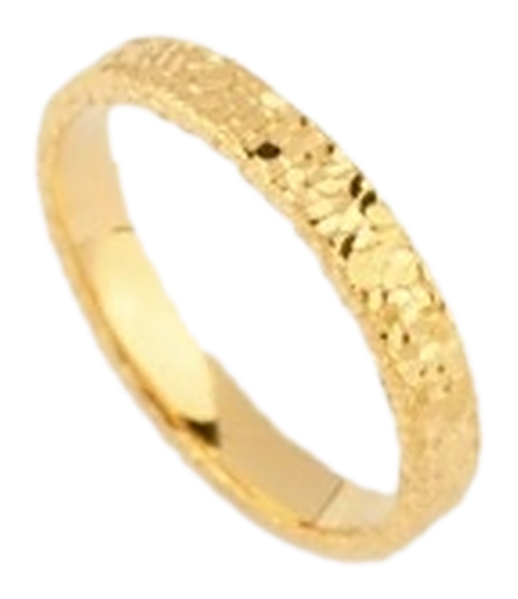
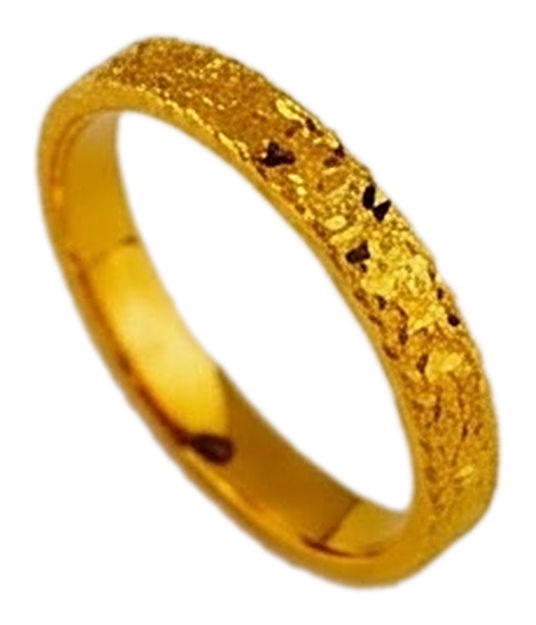
Use higher-resolution product photos for ring cutouts and menu
Claude-Session: https://claude.ai/code/session_012cKHDxTBb9kxvZVWFGyoop

diff --git a/gold-rings/compositions/hook.html b/gold-rings/compositions/hook.html
@@ -16,7 +16,7 @@
     <div data-hf-id="hf-57yj" id="hk-glow" class="glow" style="left:-60px;top:300px"></div>
     <div data-hf-id="hf-qmm4" id="hk-l1" class="center" style="top:196px;font-family:'Playfair Display',serif;font-weight:900;font-size:176px;line-height:1.05"><span data-hf-id="hf-ncsw" class="grad">EMAS 24K</span></div>
     <div data-hf-id="hf-k7p7" id="hk-l2" class="center" style="top:392px;font-weight:800;font-size:92px;line-height:1.1;letter-spacing:.01em;color:#FFF6E0">MULA&#160;<span data-hf-id="hf-z8n5" id="hk-price" style="display:inline-block;color:#FFD66B;margin:0 6px">RM774</span>?</div>
-    <div data-hf-id="hf-iel2" id="hk-wrap" class="abs" style="left:140px;top:547px;width:800px;height:706px">
+    <div data-hf-id="hf-82je" id="hk-wrap" class="abs" style="left:160px;top:562px;width:760px;height:676px">
       <img data-color-grading="{&quot;preset&quot;:null,&quot;intensity&quot;:1,&quot;adjust&quot;:{&quot;exposure&quot;:-0.04,&quot;contrast&quot;:0.12,&quot;highlights&quot;:-0.15,&quot;shadows&quot;:0,&quot;whites&quot;:0,&quot;blacks&quot;:0,&quot;temperature&quot;:0.05,&quot;tint&quot;:0,&quot;vibrance&quot;:0,&quot;saturation&quot;:0.06},&quot;details&quot;:{&quot;vignette&quot;:0,&quot;vignetteMidpoint&quot;:0.5,&quot;vignetteRoundness&quot;:0,&quot;vignetteFeather&quot;:0.65,&quot;grain&quot;:0,&quot;grainSize&quot;:0.25,&quot;grainRoughness&quot;:0.5},&quot;effects&quot;:{&quot;blur&quot;:0,&quot;pixelate&quot;:0,&quot;chromaBleed&quot;:0,&quot;tapeDamage&quot;:0,&quot;tapeTracking&quot;:0,&quot;tapeNoise&quot;:1,&quot;tapeSpeed&quot;:0.5,&quot;filmArtifacts&quot;:0,&quot;halftone&quot;:0,&quot;halftoneSize&quot;:0,&quot;twoInkPrint&quot;:0,&quot;twoInkPrintSize&quot;:0,&quot;ascii&quot;:0,&quot;asciiSize&quot;:0.06578947368421052,&quot;asciiInvert&quot;:0,&quot;asciiStyle&quot;:0,&quot;asciiColor&quot;:1,&quot;asciiRotation&quot;:0,&quot;dither&quot;:0,&quot;ditherSize&quot;:0,&quot;bloom&quot;:0,&quot;bloomRadius&quot;:8,&quot;monoScreen&quot;:0,&quot;monoScreenSize&quot;:0,&quot;monoScreenAngle&quot;:0,&quot;monoScreenSpread&quot;:0,&quot;monoScreenShape&quot;:0,&quot;monoScreenInvert&quot;:0,&quot;scanlines&quot;:0,&quot;scanlineCount&quot;:0,&quot;scanlineSoftness&quot;:0,&quot;chromaticAberration&quot;:0,&quot;chromaticAngle&quot;:0,&quot;crtCurvature&quot;:0,&quot;digitalGlitch&quot;:0,&quot;digitalGlitchColorSplit&quot;:0,&quot;digitalGlitchLineTear&quot;:0,&quot;digitalGlitchPixelate&quot;:0,&quot;digitalGlitchBlockAmount&quot;:0,&quot;digitalGlitchBlockDisplacement&quot;:0,&quot;digitalGlitchBlockOpacity&quot;:0,&quot;digitalGlitchSpeed&quot;:0,&quot;engraving&quot;:0,&quot;engravingSpacing&quot;:0.4117647058823529,&quot;engravingMinThickness&quot;:0.2,&quot;engravingMaxThickness&quot;:0.4571428571428572,&quot;engravingAngle&quot;:0.25,&quot;engravingContrast&quot;:0.4666666666666667,&quot;engravingSharpness&quot;:0.59,&quot;engravingWave&quot;:0.2,&quot;engravingWaveFrequency&quot;:0.2222222222222222,&quot;crosshatch&quot;:0,&quot;crosshatchSpacing&quot;:0.28,&quot;crosshatchThickness&quot;:0.25,&quot;crosshatchAngle&quot;:0.25,&quot;crosshatchContrast&quot;:0.3333333333333333,&quot;crosshatchEdges&quot;:0.5,&quot;crosshatchLineWeight&quot;:0,&quot;crosshatchWave&quot;:0.33,&quot;crosshatchWaveFrequency&quot;:0.2222222222222222,&quot;kuwahara&quot;:0,&quot;kuwaharaRadius&quot;:0.14285714285714285,&quot;kuwaharaSharpness&quot;:0.3125,&quot;kuwaharaSaturation&quot;:0.5},&quot;lut&quot;:null,&quot;colorSpace&quot;:&quot;rec709&quot;}" data-hf-id="hf-xk2c" id="hk-img" src="assets/img/r3.png" alt="" style="position:absolute;inset:0;width:100%;height:100%">
       <div data-hf-id="hf-edjs" id="hk-sweep" class="abs" style="inset:0;-webkit-mask-image:url(assets/img/r3.png);mask-image:url(assets/img/r3.png);-webkit-mask-size:100% 100%;mask-size:100% 100%;background:linear-gradient(105deg,rgba(255,248,220,0) 38%,rgba(255,252,235,.95) 50%,rgba(255,248,220,0) 62%);background-size:260% 100%;background-position:130% 0"></div>
     </div>

diff --git a/gold-rings/compositions/ring1.html b/gold-rings/compositions/ring1.html
@@ -16,7 +16,7 @@
     <div data-hf-id="hf-wdxv" id="r1-glow" class="glow" style="left:-60px;top:10px"></div>
     <div data-hf-id="hf-gyy7" id="r1-badge" class="center badge" style="top:222px">999 / 24K Gold</div>
     <div data-hf-id="hf-p607" class="rule" style="left:470px;top:278px"></div>
-    <div data-hf-id="hf-8t0x" id="r1-wrap" class="abs" style="left:110px;top:286px;width:860px;height:649px">
+    <div data-hf-id="hf-bd05" id="r1-wrap" class="abs" style="left:110px;top:283px;width:860px;height:655px">
       <img data-color-grading="{&quot;preset&quot;:null,&quot;intensity&quot;:1,&quot;adjust&quot;:{&quot;exposure&quot;:-0.04,&quot;contrast&quot;:0.12,&quot;highlights&quot;:-0.15,&quot;shadows&quot;:0,&quot;whites&quot;:0,&quot;blacks&quot;:0,&quot;temperature&quot;:0.05,&quot;tint&quot;:0,&quot;vibrance&quot;:0,&quot;saturation&quot;:0.06},&quot;details&quot;:{&quot;vignette&quot;:0,&quot;vignetteMidpoint&quot;:0.5,&quot;vignetteRoundness&quot;:0,&quot;vignetteFeather&quot;:0.65,&quot;grain&quot;:0,&quot;grainSize&quot;:0.25,&quot;grainRoughness&quot;:0.5},&quot;effects&quot;:{&quot;blur&quot;:0,&quot;pixelate&quot;:0,&quot;chromaBleed&quot;:0,&quot;tapeDamage&quot;:0,&quot;tapeTracking&quot;:0,&quot;tapeNoise&quot;:1,&quot;tapeSpeed&quot;:0.5,&quot;filmArtifacts&quot;:0,&quot;halftone&quot;:0,&quot;halftoneSize&quot;:0,&quot;twoInkPrint&quot;:0,&quot;twoInkPrintSize&quot;:0,&quot;ascii&quot;:0,&quot;asciiSize&quot;:0.06578947368421052,&quot;asciiInvert&quot;:0,&quot;asciiStyle&quot;:0,&quot;asciiColor&quot;:1,&quot;asciiRotation&quot;:0,&quot;dither&quot;:0,&quot;ditherSize&quot;:0,&quot;bloom&quot;:0,&quot;bloomRadius&quot;:8,&quot;monoScreen&quot;:0,&quot;monoScreenSize&quot;:0,&quot;monoScreenAngle&quot;:0,&quot;monoScreenSpread&quot;:0,&quot;monoScreenShape&quot;:0,&quot;monoScreenInvert&quot;:0,&quot;scanlines&quot;:0,&quot;scanlineCount&quot;:0,&quot;scanlineSoftness&quot;:0,&quot;chromaticAberration&quot;:0,&quot;chromaticAngle&quot;:0,&quot;crtCurvature&quot;:0,&quot;digitalGlitch&quot;:0,&quot;digitalGlitchColorSplit&quot;:0,&quot;digitalGlitchLineTear&quot;:0,&quot;digitalGlitchPixelate&quot;:0,&quot;digitalGlitchBlockAmount&quot;:0,&quot;digitalGlitchBlockDisplacement&quot;:0,&quot;digitalGlitchBlockOpacity&quot;:0,&quot;digitalGlitchSpeed&quot;:0,&quot;engraving&quot;:0,&quot;engravingSpacing&quot;:0.4117647058823529,&quot;engravingMinThickness&quot;:0.2,&quot;engravingMaxThickness&quot;:0.4571428571428572,&quot;engravingAngle&quot;:0.25,&quot;engravingContrast&quot;:0.4666666666666667,&quot;engravingSharpness&quot;:0.59,&quot;engravingWave&quot;:0.2,&quot;engravingWaveFrequency&quot;:0.2222222222222222,&quot;crosshatch&quot;:0,&quot;crosshatchSpacing&quot;:0.28,&quot;crosshatchThickness&quot;:0.25,&quot;crosshatchAngle&quot;:0.25,&quot;crosshatchContrast&quot;:0.3333333333333333,&quot;crosshatchEdges&quot;:0.5,&quot;crosshatchLineWeight&quot;:0,&quot;crosshatchWave&quot;:0.33,&quot;crosshatchWaveFrequency&quot;:0.2222222222222222,&quot;kuwahara&quot;:0,&quot;kuwaharaRadius&quot;:0.14285714285714285,&quot;kuwaharaSharpness&quot;:0.3125,&quot;kuwaharaSaturation&quot;:0.5},&quot;lut&quot;:null,&quot;colorSpace&quot;:&quot;rec709&quot;}" data-hf-id="hf-xw3q" id="r1-img" src="assets/img/r1.png" alt="" style="position:absolute;inset:0;width:100%;height:100%">
       <div data-hf-id="hf-jxu8" id="r1-sweep" class="abs" style="inset:0;-webkit-mask-image:url(assets/img/r1.png);mask-image:url(assets/img/r1.png);-webkit-mask-size:100% 100%;mask-size:100% 100%;background:linear-gradient(105deg,rgba(255,248,220,0) 38%,rgba(255,252,235,.95) 50%,rgba(255,248,220,0) 62%);background-size:260% 100%;background-position:130% 0"></div>
     </div>

diff --git a/gold-rings/compositions/ring2.html b/gold-rings/compositions/ring2.html
@@ -16,7 +16,7 @@
     <div data-hf-id="hf-fczy" id="r2-glow" class="glow" style="left:-60px;top:10px"></div>
     <div data-hf-id="hf-f640" id="r2-badge" class="center badge" style="top:222px">999 / 24K Gold</div>
     <div data-hf-id="hf-p607" class="rule" style="left:470px;top:278px"></div>
-    <div data-hf-id="hf-jgfy" id="r2-wrap" class="abs" style="left:110px;top:279px;width:860px;height:663px">
+    <div data-hf-id="hf-rgf8" id="r2-wrap" class="abs" style="left:110px;top:286px;width:860px;height:649px">
       <img data-color-grading="{&quot;preset&quot;:null,&quot;intensity&quot;:1,&quot;adjust&quot;:{&quot;exposure&quot;:-0.04,&quot;contrast&quot;:0.12,&quot;highlights&quot;:-0.15,&quot;shadows&quot;:0,&quot;whites&quot;:0,&quot;blacks&quot;:0,&quot;temperature&quot;:0.05,&quot;tint&quot;:0,&quot;vibrance&quot;:0,&quot;saturation&quot;:0.06},&quot;details&quot;:{&quot;vignette&quot;:0,&quot;vignetteMidpoint&quot;:0.5,&quot;vignetteRoundness&quot;:0,&quot;vignetteFeather&quot;:0.65,&quot;grain&quot;:0,&quot;grainSize&quot;:0.25,&quot;grainRoughness&quot;:0.5},&quot;effects&quot;:{&quot;blur&quot;:0,&quot;pixelate&quot;:0,&quot;chromaBleed&quot;:0,&quot;tapeDamage&quot;:0,&quot;tapeTracking&quot;:0,&quot;tapeNoise&quot;:1,&quot;tapeSpeed&quot;:0.5,&quot;filmArtifacts&quot;:0,&quot;halftone&quot;:0,&quot;halftoneSize&quot;:0,&quot;twoInkPrint&quot;:0,&quot;twoInkPrintSize&quot;:0,&quot;ascii&quot;:0,&quot;asciiSize&quot;:0.06578947368421052,&quot;asciiInvert&quot;:0,&quot;asciiStyle&quot;:0,&quot;asciiColor&quot;:1,&quot;asciiRotation&quot;:0,&quot;dither&quot;:0,&quot;ditherSize&quot;:0,&quot;bloom&quot;:0,&quot;bloomRadius&quot;:8,&quot;monoScreen&quot;:0,&quot;monoScreenSize&quot;:0,&quot;monoScreenAngle&quot;:0,&quot;monoScreenSpread&quot;:0,&quot;monoScreenShape&quot;:0,&quot;monoScreenInvert&quot;:0,&quot;scanlines&quot;:0,&quot;scanlineCount&quot;:0,&quot;scanlineSoftness&quot;:0,&quot;chromaticAberration&quot;:0,&quot;chromaticAngle&quot;:0,&quot;crtCurvature&quot;:0,&quot;digitalGlitch&quot;:0,&quot;digitalGlitchColorSplit&quot;:0,&quot;digitalGlitchLineTear&quot;:0,&quot;digitalGlitchPixelate&quot;:0,&quot;digitalGlitchBlockAmount&quot;:0,&quot;digitalGlitchBlockDisplacement&quot;:0,&quot;digitalGlitchBlockOpacity&quot;:0,&quot;digitalGlitchSpeed&quot;:0,&quot;engraving&quot;:0,&quot;engravingSpacing&quot;:0.4117647058823529,&quot;engravingMinThickness&quot;:0.2,&quot;engravingMaxThickness&quot;:0.4571428571428572,&quot;engravingAngle&quot;:0.25,&quot;engravingContrast&quot;:0.4666666666666667,&quot;engravingSharpness&quot;:0.59,&quot;engravingWave&quot;:0.2,&quot;engravingWaveFrequency&quot;:0.2222222222222222,&quot;crosshatch&quot;:0,&quot;crosshatchSpacing&quot;:0.28,&quot;crosshatchThickness&quot;:0.25,&quot;crosshatchAngle&quot;:0.25,&quot;crosshatchContrast&quot;:0.3333333333333333,&quot;crosshatchEdges&quot;:0.5,&quot;crosshatchLineWeight&quot;:0,&quot;crosshatchWave&quot;:0.33,&quot;crosshatchWaveFrequency&quot;:0.2222222222222222,&quot;kuwahara&quot;:0,&quot;kuwaharaRadius&quot;:0.14285714285714285,&quot;kuwaharaSharpness&quot;:0.3125,&quot;kuwaharaSaturation&quot;:0.5},&quot;lut&quot;:null,&quot;colorSpace&quot;:&quot;rec709&quot;}" data-hf-id="hf-2g4c" id="r2-img" src="assets/img/r4.png" alt="" style="position:absolute;inset:0;width:100%;height:100%">
       <div data-hf-id="hf-k6j3" id="r2-sweep" class="abs" style="inset:0;-webkit-mask-image:url(assets/img/r4.png);mask-image:url(assets/img/r4.png);-webkit-mask-size:100% 100%;mask-size:100% 100%;background:linear-gradient(105deg,rgba(255,248,220,0) 38%,rgba(255,252,235,.95) 50%,rgba(255,248,220,0) 62%);background-size:260% 100%;background-position:130% 0"></div>
     </div>

diff --git a/gold-rings/compositions/ring3.html b/gold-rings/compositions/ring3.html
@@ -16,7 +16,7 @@
     <div data-hf-id="hf-k351" id="r3-glow" class="glow" style="left:-60px;top:10px"></div>
     <div data-hf-id="hf-96kx" id="r3-badge" class="center badge" style="top:222px">999 / 24K Gold</div>
     <div data-hf-id="hf-p607" class="rule" style="left:470px;top:278px"></div>
-    <div data-hf-id="hf-dg11" id="r3-wrap" class="abs" style="left:255px;top:281px;width:570px;height:659px">
+    <div data-hf-id="hf-ri3w" id="r3-wrap" class="abs" style="left:255px;top:278px;width:570px;height:665px">
       <img data-color-grading="{&quot;preset&quot;:null,&quot;intensity&quot;:1,&quot;adjust&quot;:{&quot;exposure&quot;:-0.04,&quot;contrast&quot;:0.12,&quot;highlights&quot;:-0.15,&quot;shadows&quot;:0,&quot;whites&quot;:0,&quot;blacks&quot;:0,&quot;temperature&quot;:0.05,&quot;tint&quot;:0,&quot;vibrance&quot;:0,&quot;saturation&quot;:0.06},&quot;details&quot;:{&quot;vignette&quot;:0,&quot;vignetteMidpoint&quot;:0.5,&quot;vignetteRoundness&quot;:0,&quot;vignetteFeather&quot;:0.65,&quot;grain&quot;:0,&quot;grainSize&quot;:0.25,&quot;grainRoughness&quot;:0.5},&quot;effects&quot;:{&quot;blur&quot;:0,&quot;pixelate&quot;:0,&quot;chromaBleed&quot;:0,&quot;tapeDamage&quot;:0,&quot;tapeTracking&quot;:0,&quot;tapeNoise&quot;:1,&quot;tapeSpeed&quot;:0.5,&quot;filmArtifacts&quot;:0,&quot;halftone&quot;:0,&quot;halftoneSize&quot;:0,&quot;twoInkPrint&quot;:0,&quot;twoInkPrintSize&quot;:0,&quot;ascii&quot;:0,&quot;asciiSize&quot;:0.06578947368421052,&quot;asciiInvert&quot;:0,&quot;asciiStyle&quot;:0,&quot;asciiColor&quot;:1,&quot;asciiRotation&quot;:0,&quot;dither&quot;:0,&quot;ditherSize&quot;:0,&quot;bloom&quot;:0,&quot;bloomRadius&quot;:8,&quot;monoScreen&quot;:0,&quot;monoScreenSize&quot;:0,&quot;monoScreenAngle&quot;:0,&quot;monoScreenSpread&quot;:0,&quot;monoScreenShape&quot;:0,&quot;monoScreenInvert&quot;:0,&quot;scanlines&quot;:0,&quot;scanlineCount&quot;:0,&quot;scanlineSoftness&quot;:0,&quot;chromaticAberration&quot;:0,&quot;chromaticAngle&quot;:0,&quot;crtCurvature&quot;:0,&quot;digitalGlitch&quot;:0,&quot;digitalGlitchColorSplit&quot;:0,&quot;digitalGlitchLineTear&quot;:0,&quot;digitalGlitchPixelate&quot;:0,&quot;digitalGlitchBlockAmount&quot;:0,&quot;digitalGlitchBlockDisplacement&quot;:0,&quot;digitalGlitchBlockOpacity&quot;:0,&quot;digitalGlitchSpeed&quot;:0,&quot;engraving&quot;:0,&quot;engravingSpacing&quot;:0.4117647058823529,&quot;engravingMinThickness&quot;:0.2,&quot;engravingMaxThickness&quot;:0.4571428571428572,&quot;engravingAngle&quot;:0.25,&quot;engravingContrast&quot;:0.4666666666666667,&quot;engravingSharpness&quot;:0.59,&quot;engravingWave&quot;:0.2,&quot;engravingWaveFrequency&quot;:0.2222222222222222,&quot;crosshatch&quot;:0,&quot;crosshatchSpacing&quot;:0.28,&quot;crosshatchThickness&quot;:0.25,&quot;crosshatchAngle&quot;:0.25,&quot;crosshatchContrast&quot;:0.3333333333333333,&quot;crosshatchEdges&quot;:0.5,&quot;crosshatchLineWeight&quot;:0,&quot;crosshatchWave&quot;:0.33,&quot;crosshatchWaveFrequency&quot;:0.2222222222222222,&quot;kuwahara&quot;:0,&quot;kuwaharaRadius&quot;:0.14285714285714285,&quot;kuwaharaSharpness&quot;:0.3125,&quot;kuwaharaSaturation&quot;:0.5},&quot;lut&quot;:null,&quot;colorSpace&quot;:&quot;rec709&quot;}" data-hf-id="hf-i1yp" id="r3-img" src="assets/img/r2.png" alt="" style="position:absolute;inset:0;width:100%;height:100%">
       <div data-hf-id="hf-06xu" id="r3-sweep" class="abs" style="inset:0;-webkit-mask-image:url(assets/img/r2.png);mask-image:url(assets/img/r2.png);-webkit-mask-size:100% 100%;mask-size:100% 100%;background:linear-gradient(105deg,rgba(255,248,220,0) 38%,rgba(255,252,235,.95) 50%,rgba(255,248,220,0) 62%);background-size:260% 100%;background-position:130% 0"></div>
     </div>

diff --git a/gold-rings/compositions/ring4.html b/gold-rings/compositions/ring4.html
@@ -16,7 +16,7 @@
     <div data-hf-id="hf-qkxc" id="r4-glow" class="glow" style="left:-60px;top:10px"></div>
     <div data-hf-id="hf-qqh6" id="r4-badge" class="center badge" style="top:222px">999 / 24K Gold</div>
     <div data-hf-id="hf-p607" class="rule" style="left:470px;top:278px"></div>
-    <div data-hf-id="hf-78z5" id="r4-wrap" class="abs" style="left:140px;top:257px;width:800px;height:706px">
+    <div data-hf-id="hf-oo09" id="r4-wrap" class="abs" style="left:160px;top:272px;width:760px;height:676px">
       <img data-color-grading="{&quot;preset&quot;:null,&quot;intensity&quot;:1,&quot;adjust&quot;:{&quot;exposure&quot;:-0.04,&quot;contrast&quot;:0.12,&quot;highlights&quot;:-0.15,&quot;shadows&quot;:0,&quot;whites&quot;:0,&quot;blacks&quot;:0,&quot;temperature&quot;:0.05,&quot;tint&quot;:0,&quot;vibrance&quot;:0,&quot;saturation&quot;:0.06},&quot;details&quot;:{&quot;vignette&quot;:0,&quot;vignetteMidpoint&quot;:0.5,&quot;vignetteRoundness&quot;:0,&quot;vignetteFeather&quot;:0.65,&quot;grain&quot;:0,&quot;grainSize&quot;:0.25,&quot;grainRoughness&quot;:0.5},&quot;effects&quot;:{&quot;blur&quot;:0,&quot;pixelate&quot;:0,&quot;chromaBleed&quot;:0,&quot;tapeDamage&quot;:0,&quot;tapeTracking&quot;:0,&quot;tapeNoise&quot;:1,&quot;tapeSpeed&quot;:0.5,&quot;filmArtifacts&quot;:0,&quot;halftone&quot;:0,&quot;halftoneSize&quot;:0,&quot;twoInkPrint&quot;:0,&quot;twoInkPrintSize&quot;:0,&quot;ascii&quot;:0,&quot;asciiSize&quot;:0.06578947368421052,&quot;asciiInvert&quot;:0,&quot;asciiStyle&quot;:0,&quot;asciiColor&quot;:1,&quot;asciiRotation&quot;:0,&quot;dither&quot;:0,&quot;ditherSize&quot;:0,&quot;bloom&quot;:0,&quot;bloomRadius&quot;:8,&quot;monoScreen&quot;:0,&quot;monoScreenSize&quot;:0,&quot;monoScreenAngle&quot;:0,&quot;monoScreenSpread&quot;:0,&quot;monoScreenShape&quot;:0,&quot;monoScreenInvert&quot;:0,&quot;scanlines&quot;:0,&quot;scanlineCount&quot;:0,&quot;scanlineSoftness&quot;:0,&quot;chromaticAberration&quot;:0,&quot;chromaticAngle&quot;:0,&quot;crtCurvature&quot;:0,&quot;digitalGlitch&quot;:0,&quot;digitalGlitchColorSplit&quot;:0,&quot;digitalGlitchLineTear&quot;:0,&quot;digitalGlitchPixelate&quot;:0,&quot;digitalGlitchBlockAmount&quot;:0,&quot;digitalGlitchBlockDisplacement&quot;:0,&quot;digitalGlitchBlockOpacity&quot;:0,&quot;digitalGlitchSpeed&quot;:0,&quot;engraving&quot;:0,&quot;engravingSpacing&quot;:0.4117647058823529,&quot;engravingMinThickness&quot;:0.2,&quot;engravingMaxThickness&quot;:0.4571428571428572,&quot;engravingAngle&quot;:0.25,&quot;engravingContrast&quot;:0.4666666666666667,&quot;engravingSharpness&quot;:0.59,&quot;engravingWave&quot;:0.2,&quot;engravingWaveFrequency&quot;:0.2222222222222222,&quot;crosshatch&quot;:0,&quot;crosshatchSpacing&quot;:0.28,&quot;crosshatchThickness&quot;:0.25,&quot;crosshatchAngle&quot;:0.25,&quot;crosshatchContrast&quot;:0.3333333333333333,&quot;crosshatchEdges&quot;:0.5,&quot;crosshatchLineWeight&quot;:0,&quot;crosshatchWave&quot;:0.33,&quot;crosshatchWaveFrequency&quot;:0.2222222222222222,&quot;kuwahara&quot;:0,&quot;kuwaharaRadius&quot;:0.14285714285714285,&quot;kuwaharaSharpness&quot;:0.3125,&quot;kuwaharaSaturation&quot;:0.5},&quot;lut&quot;:null,&quot;colorSpace&quot;:&quot;rec709&quot;}" data-hf-id="hf-pc67" id="r4-img" src="assets/img/r3.png" alt="" style="position:absolute;inset:0;width:100%;height:100%">
       <div data-hf-id="hf-yurl" id="r4-sweep" class="abs" style="inset:0;-webkit-mask-image:url(assets/img/r3.png);mask-image:url(assets/img/r3.png);-webkit-mask-size:100% 100%;mask-size:100% 100%;background:linear-gradient(105deg,rgba(255,248,220,0) 38%,rgba(255,252,235,.95) 50%,rgba(255,248,220,0) 62%);background-size:260% 100%;background-position:130% 0"></div>
     </div>

diff --git a/gold-rings/compositions/cta.html b/gold-rings/compositions/cta.html
@@ -14,7 +14,7 @@
   </style>
   <div data-hf-id="hf-rebv" id="root" data-composition-id="cta" data-width="1080" data-height="1920">
     <div data-hf-id="hf-icuc" id="ct-glow" class="glow" style="left:-60px;top:-180px"></div>
-    <div data-hf-id="hf-or3v" id="ct-wrap" class="abs" style="left:270px;top:217px;width:540px;height:407px">
+    <div data-hf-id="hf-vi2w" id="ct-wrap" class="abs" style="left:270px;top:215px;width:540px;height:411px">
       <img data-color-grading="{&quot;preset&quot;:null,&quot;intensity&quot;:1,&quot;adjust&quot;:{&quot;exposure&quot;:-0.04,&quot;contrast&quot;:0.12,&quot;highlights&quot;:-0.15,&quot;shadows&quot;:0,&quot;whites&quot;:0,&quot;blacks&quot;:0,&quot;temperature&quot;:0.05,&quot;tint&quot;:0,&quot;vibrance&quot;:0,&quot;saturation&quot;:0.06},&quot;details&quot;:{&quot;vignette&quot;:0,&quot;vignetteMidpoint&quot;:0.5,&quot;vignetteRoundness&quot;:0,&quot;vignetteFeather&quot;:0.65,&quot;grain&quot;:0,&quot;grainSize&quot;:0.25,&quot;grainRoughness&quot;:0.5},&quot;effects&quot;:{&quot;blur&quot;:0,&quot;pixelate&quot;:0,&quot;chromaBleed&quot;:0,&quot;tapeDamage&quot;:0,&quot;tapeTracking&quot;:0,&quot;tapeNoise&quot;:1,&quot;tapeSpeed&quot;:0.5,&quot;filmArtifacts&quot;:0,&quot;halftone&quot;:0,&quot;halftoneSize&quot;:0,&quot;twoInkPrint&quot;:0,&quot;twoInkPrintSize&quot;:0,&quot;ascii&quot;:0,&quot;asciiSize&quot;:0.06578947368421052,&quot;asciiInvert&quot;:0,&quot;asciiStyle&quot;:0,&quot;asciiColor&quot;:1,&quot;asciiRotation&quot;:0,&quot;dither&quot;:0,&quot;ditherSize&quot;:0,&quot;bloom&quot;:0,&quot;bloomRadius&quot;:8,&quot;monoScreen&quot;:0,&quot;monoScreenSize&quot;:0,&quot;monoScreenAngle&quot;:0,&quot;monoScreenSpread&quot;:0,&quot;monoScreenShape&quot;:0,&quot;monoScreenInvert&quot;:0,&quot;scanlines&quot;:0,&quot;scanlineCount&quot;:0,&quot;scanlineSoftness&quot;:0,&quot;chromaticAberration&quot;:0,&quot;chromaticAngle&quot;:0,&quot;crtCurvature&quot;:0,&quot;digitalGlitch&quot;:0,&quot;digitalGlitchColorSplit&quot;:0,&quot;digitalGlitchLineTear&quot;:0,&quot;digitalGlitchPixelate&quot;:0,&quot;digitalGlitchBlockAmount&quot;:0,&quot;digitalGlitchBlockDisplacement&quot;:0,&quot;digitalGlitchBlockOpacity&quot;:0,&quot;digitalGlitchSpeed&quot;:0,&quot;engraving&quot;:0,&quot;engravingSpacing&quot;:0.4117647058823529,&quot;engravingMinThickness&quot;:0.2,&quot;engravingMaxThickness&quot;:0.4571428571428572,&quot;engravingAngle&quot;:0.25,&quot;engravingContrast&quot;:0.4666666666666667,&quot;engravingSharpness&quot;:0.59,&quot;engravingWave&quot;:0.2,&quot;engravingWaveFrequency&quot;:0.2222222222222222,&quot;crosshatch&quot;:0,&quot;crosshatchSpacing&quot;:0.28,&quot;crosshatchThickness&quot;:0.25,&quot;crosshatchAngle&quot;:0.25,&quot;crosshatchContrast&quot;:0.3333333333333333,&quot;crosshatchEdges&quot;:0.5,&quot;crosshatchLineWeight&quot;:0,&quot;crosshatchWave&quot;:0.33,&quot;crosshatchWaveFrequency&quot;:0.2222222222222222,&quot;kuwahara&quot;:0,&quot;kuwaharaRadius&quot;:0.14285714285714285,&quot;kuwaharaSharpness&quot;:0.3125,&quot;kuwaharaSaturation&quot;:0.5},&quot;lut&quot;:null,&quot;colorSpace&quot;:&quot;rec709&quot;}" data-hf-id="hf-rwtk" id="ct-img" src="assets/img/r1.png" alt="" style="position:absolute;inset:0;width:100%;height:100%">
       <div data-hf-id="hf-evim" id="ct-sweep" class="abs" style="inset:0;-webkit-mask-image:url(assets/img/r1.png);mask-image:url(assets/img/r1.png);-webkit-mask-size:100% 100%;mask-size:100% 100%;background:linear-gradient(105deg,rgba(255,248,220,0) 38%,rgba(255,252,235,.95) 50%,rgba(255,248,220,0) 62%);background-size:260% 100%;background-position:130% 0"></div>
     </div>
